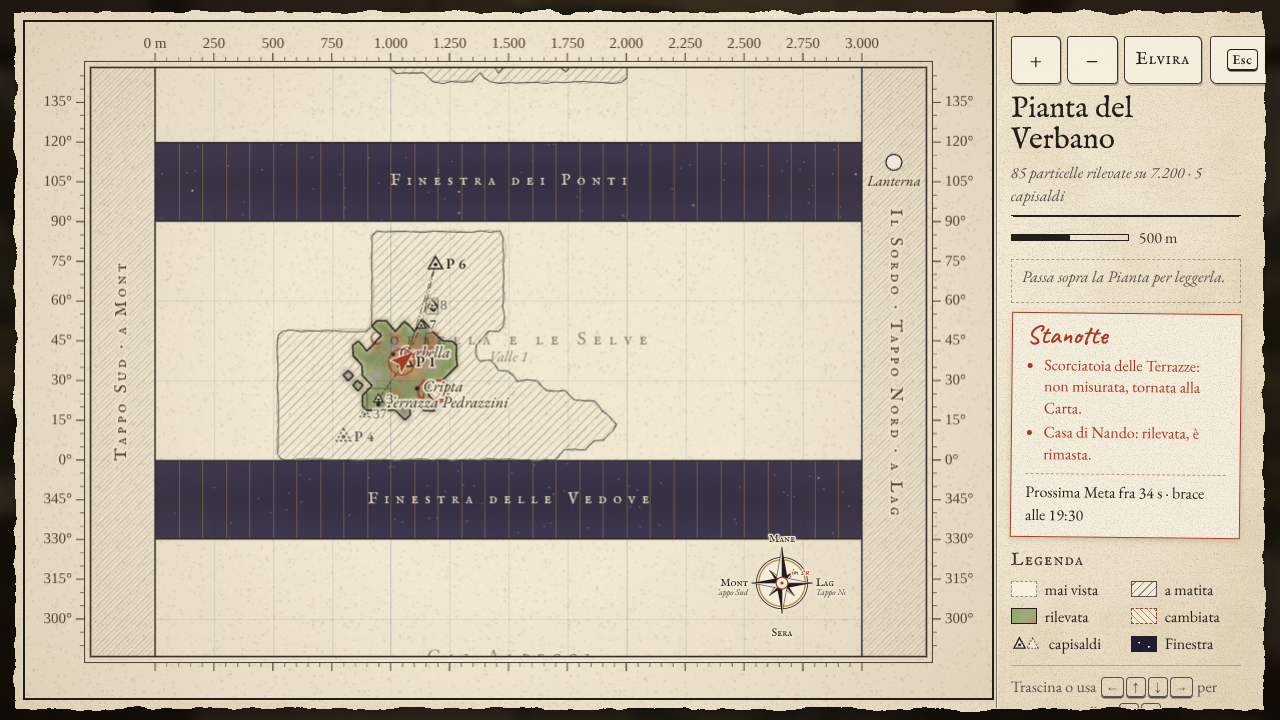
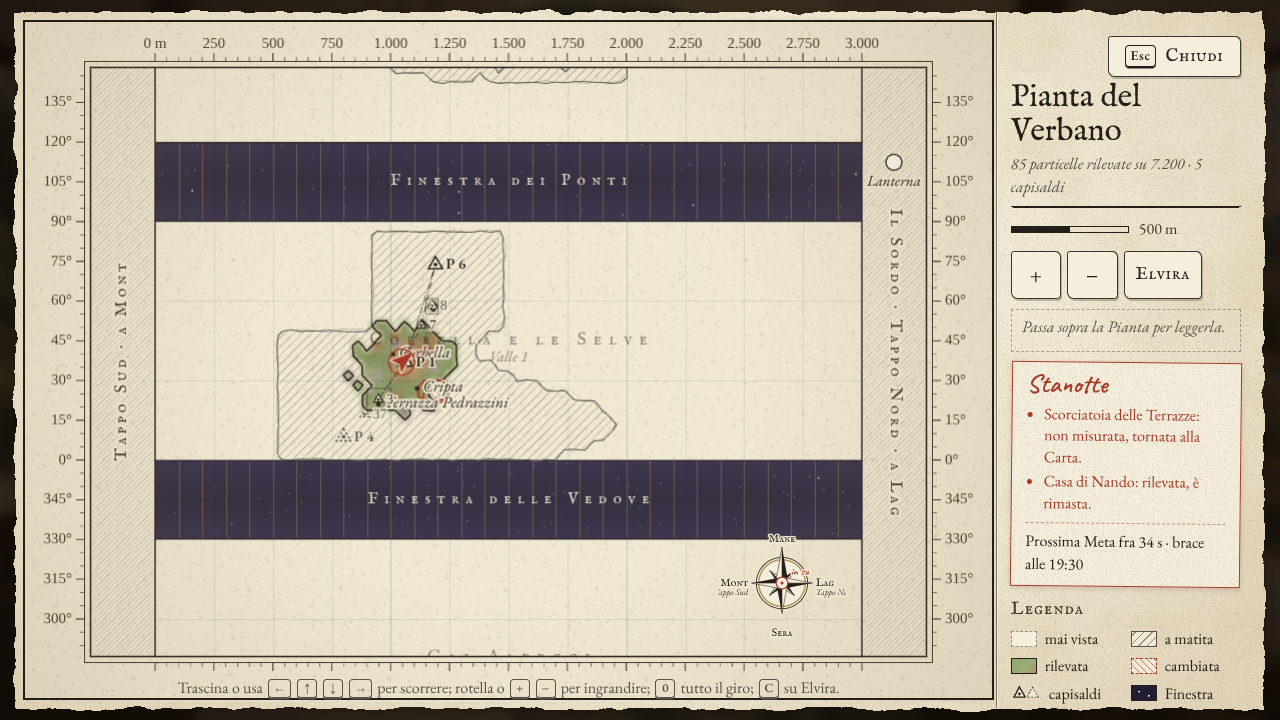
Cielo di Terra: istantanea del lavoro in corso
Claude-Session: https://claude.ai/code/session_016L3mhZfM8m5LnzdjzNNuFY

Changed region(s): [[0.7812, 0.0306, 1.0, 0.9778], [0.125, 0.9472, 0.6562, 0.9778]]

diff --git a/cielo-di-terra/moduli/narrativa/src/missioni.ts b/cielo-di-terra/moduli/narrativa/src/missioni.ts
@@ -8,9 +8,13 @@
  * - una missione inattiva con `avviaQuando` vero parte da sola; le altre
  *   partono con l'effetto «missione:id avvia», con `avvia(id)` o perché sono
  *   fra le `iniziali` (avviate al primo aggiornamento di una partita nuova);
- * - in una missione «sequenziale» un passo si attiva quando il precedente è
- *   completato e la sua `attivaQuando` (se c'è) è vera; in una «libera»
- *   conta solo `attivaQuando`;
+ * - un passo con `attivaQuando` si attiva quando la condizione è vera (così
+ *   si scrivono anche passi paralleli); un passo senza `attivaQuando`, in una
+ *   missione «sequenziale» (predefinita), si attiva quando il precedente è
+ *   completato, in una «libera» subito;
+ * - mentre un passo è attivo, ogni suo evento `{ quando, effetti }` scatta
+ *   una volta sola, la prima volta che `quando` è vera; gli aiuti a tempo
+ *   scattano dopo `dopoSecondi` secondi reali di passo attivo (`avanzaTempo`);
  * - un passo attivo si completa quando `completaQuando` è vera: si emette
  *   l'evento e si applicano i suoi effetti;
  * - quando tutti i passi sono completati la missione è completata e si
@@ -26,7 +30,7 @@ export type StatoPasso = 'bloccato' | 'attivo' | 'completato';
 
 export interface EventiMissioni {
   missioneAvviata: { missione: string; titolo: string };
-  passoAttivato: { missione: string; passo: string; obiettivo?: string };
+  passoAttivato: { missione: string; passo: string; obiettivo?: string; luogo?: string };
   passoCompletato: { missione: string; passo: string };
   missioneCompletata: { missione: string; titolo: string };
   missioneFallita: { missione: string; titolo: string };
@@ -39,18 +43,31 @@ export interface DipendenzeMissioni {
 
 export interface StatoMissioni {
   inizializzate: boolean;
-  missioni: Record<string, { stato: StatoMissione; passi: Record<string, StatoPasso> }>;
+  missioni: Record<
+    string,
+    {
+      stato: StatoMissione;
+      passi: Record<string, StatoPasso>;
+      /** Indici degli eventi dei passi già scattati. */
+      eventi?: Record<string, number[]>;
+      /** Indici degli aiuti a tempo già scattati. */
+      aiuti?: Record<string, number[]>;
+    }
+  >;
 }
 
 export interface PassoAttivo {
   missione: string;
   passo: string;
   obiettivo?: string;
+  luogo?: string;
 }
 
 interface StatoInterno {
   stato: StatoMissione;
   passi: Map<string, StatoPasso>;
+  eventi: Map<string, Set<number>>;
+  aiuti: Map<string, Set<number>>;
 }
 
 /** Limite di sicurezza per la cascata di `aggiorna()`. */
@@ -64,6 +81,8 @@ export class Missioni {
   private readonly stati = new Map<string, StatoInterno>();
   private inizializzate = false;
   private inAggiornamento = false;
+  /** Secondi reali passati con ciascun passo attivo («missione/passo»); non salvati. */
+  private readonly tempoAttivo = new Map<string, number>();
 
   constructor(
     defs: readonly MissioneDef[],
@@ -120,7 +139,12 @@ export class Missioni {
       if (this.stato(m.id) !== 'attiva') continue;
       for (const p of m.passi) {
         if (this.statoPasso(m.id, p.id) === 'attivo') {
-          out.push({ missione: m.id, passo: p.id, ...(p.obiettivo !== undefined ? { obiettivo: p.obiettivo } : {}) });
+          out.push({
+            missione: m.id,
+            passo: p.id,
+            ...(p.obiettivo !== undefined ? { obiettivo: p.obiettivo } : {}),
+            ...(p.luogo !== undefined ? { luogo: p.luogo } : {}),
+          });
         }
       }
     }
@@ -206,6 +230,18 @@ export class Missioni {
           st = 'attivo';
           progresso = true;
         }
+        if (st === 'attivo' && p.eventi.length) {
+          let fatti = s.eventi.get(p.id);
+          p.eventi.forEach((e, k) => {
+            if (s.stato !== 'attiva' || s.passi.get(p.id) !== 'attivo' || fatti?.has(k)) return;
+            if (!this.deps.valuta(e.quando)) return;
+            if (!fatti) s.eventi.set(p.id, (fatti = new Set()));
+            fatti.add(k);
+            progresso = true;
+            if (e.effetti.length) this.deps.applicaEffetti(e.effetti, `missione ${d.id}, passo ${p.id}, evento ${k + 1}`);
+          });
+          if (s.passi.get(p.id) !== 'attivo') return;
+        }
         if (st === 'attivo' && p.completaQuando !== undefined && this.deps.valuta(p.completaQuando)) {
           this.completaPassoInterno(d, s, p);
           progresso = true;
@@ -221,17 +257,48 @@ export class Missioni {
   }
 
   private puoAttivare(d: MissioneDef, s: StatoInterno, p: PassoDef, i: number): boolean {
-    if (d.ordine === 'sequenziale' && i > 0) {
-      const prec = d.passi[i - 1]!;
-      if (s.passi.get(prec.id) !== 'completato') return false;
+    if (p.attivaQuando !== undefined) return this.deps.valuta(p.attivaQuando);
+    if (d.ordine === 'sequenziale' && i > 0) return s.passi.get(d.passi[i - 1]!.id) === 'completato';
+    return true;
+  }
+
+  /**
+   * Fa passare `secondi` secondi reali per i passi attivi e applica gli aiuti
+   * a tempo maturati. Restituisce true se qualche aiuto è scattato.
+   */
+  avanzaTempo(secondi: number): boolean {
+    if (!(secondi > 0)) return false;
+    let scattato = false;
+    for (const d of this.defs.values()) {
+      const s = this.stati.get(d.id);
+      if (!s || s.stato !== 'attiva') continue;
+      for (const p of d.passi) {
+        if (s.passi.get(p.id) !== 'attivo' || p.aiuti.length === 0) continue;
+        const chiave = `${d.id}/${p.id}`;
+        const t = (this.tempoAttivo.get(chiave) ?? 0) + secondi;
+        this.tempoAttivo.set(chiave, t);
+        p.aiuti.forEach((a, k) => {
+          let fatti = s.aiuti.get(p.id);
+          if (fatti?.has(k) || t < a.dopoSecondi || s.passi.get(p.id) !== 'attivo') return;
+          if (!fatti) s.aiuti.set(p.id, (fatti = new Set()));
+          fatti.add(k);
+          scattato = true;
+          if (a.effetti.length) this.deps.applicaEffetti(a.effetti, `missione ${d.id}, passo ${p.id}, aiuto ${k + 1}`);
+        });
+      }
     }
-    return p.attivaQuando === undefined || this.deps.valuta(p.attivaQuando);
+    return scattato;
   }
 
   private avviaSenzaAggiornare(id: string): boolean {
     const d = this.defs.get(id);
     if (!d || this.stato(id) !== 'inattiva') return false;
-    const s: StatoInterno = { stato: 'attiva', passi: new Map(d.passi.map((p) => [p.id, 'bloccato' as StatoPasso])) };
+    const s: StatoInterno = {
+      stato: 'attiva',
+      passi: new Map(d.passi.map((p) => [p.id, 'bloccato' as StatoPasso])),
+      eventi: new Map(),
+      aiuti: new Map(),
+    };
     this.stati.set(id, s);
     this.eventi.emit('missioneAvviata', { missione: id, titolo: d.titolo });
     return true;
@@ -243,6 +310,7 @@ export class Missioni {
       missione: d.id,
       passo: p.id,
       ...(p.obiettivo !== undefined ? { obiettivo: p.obiettivo } : {}),
+      ...(p.luogo !== undefined ? { luogo: p.luogo } : {}),
     });
     if (p.effettiAttivazione.length) this.deps.applicaEffetti(p.effettiAttivazione, `missione ${d.id}, attivazione di ${p.id}`);
   }
@@ -275,14 +343,21 @@ export class Missioni {
 
   esporta(): StatoMissioni {
     const missioni: StatoMissioni['missioni'] = {};
+    const lista = (m: Map<string, Set<number>>): Record<string, number[]> =>
+      Object.fromEntries([...m].filter(([, v]) => v.size).map(([k, v]) => [k, [...v].sort((a, b) => a - b)]));
     for (const [id, s] of this.stati) {
       missioni[id] = { stato: s.stato, passi: Object.fromEntries(s.passi) };
+      if (s.eventi.size) missioni[id].eventi = lista(s.eventi);
+      if (s.aiuti.size) missioni[id].aiuti = lista(s.aiuti);
     }
     return { inizializzate: this.inizializzate, missioni };
   }
 
   importa(dati: StatoMissioni): void {
     this.stati.clear();
+    this.tempoAttivo.clear();
+    const insiemi = (r: Record<string, number[]> | undefined): Map<string, Set<number>> =>
+      new Map(Object.entries(r ?? {}).map(([k, v]) => [k, new Set(Array.isArray(v) ? v.filter((n) => typeof n === 'number') : [])]));
     this.inizializzate = !!dati.inizializzate;
     const statiValidi = new Set<StatoMissione>(['inattiva', 'attiva', 'completata', 'fallita']);
     const passiValidi = new Set<StatoPasso>(['bloccato', 'attivo', 'completato']);
@@ -292,7 +367,7 @@ export class Missioni {
       for (const [p, st] of Object.entries(s.passi ?? {})) if (passiValidi.has(st)) passi.set(p, st);
       // Passi aggiunti ai contenuti dopo il salvataggio: partono bloccati.
       for (const p of this.defs.get(id)?.passi ?? []) if (!passi.has(p.id)) passi.set(p.id, 'bloccato');
-      this.stati.set(id, { stato: s.stato, passi });
+      this.stati.set(id, { stato: s.stato, passi, eventi: insiemi(s.eventi), aiuti: insiemi(s.aiuti) });
     }
   }
 }

diff --git a/cielo-di-terra/moduli/narrativa/src/narrativa.ts b/cielo-di-terra/moduli/narrativa/src/narrativa.ts
@@ -292,11 +292,14 @@ export class Narrativa {
   }
 
   /**
-   * Valuta le missioni (avvio, attivazione e completamento dei passi) e le
-   * voci automatiche del taccuino, a cascata finché nulla cambia.
-   * Il gioco lo chiama ogni tanto; restituisce true se qualcosa è cambiato.
+   * Valuta le missioni (avvio, attivazione e completamento dei passi, eventi
+   * dei passi) e le voci automatiche del taccuino, a cascata finché nulla
+   * cambia; aggiorna la riga del cielo e annuncia i dialoghi automatici.
+   * Il gioco lo chiama ogni tanto; `secondi` (facoltativo) sono i secondi
+   * reali passati dall'ultima chiamata, per gli aiuti a tempo dei passi.
+   * Restituisce true se qualcosa è cambiato.
    */
-  tick(): boolean {
+  tick(secondi = 0): boolean {
     if (this.inTick) {
       this.tickRichiesto = true;
       return false;
@@ -304,6 +307,7 @@ export class Narrativa {
     this.inTick = true;
     let cambiato = false;
     try {
+      if (this.missioni.avanzaTempo(secondi)) cambiato = true;
       if (this.fatti.prossimoEventoCielo) this.taccuino.impostaRigaCieloGioco(this.fatti.prossimoEventoCielo());
       for (let giro = 0; giro < 1000; giro++) {
         this.tickRichiesto = false;

diff --git a/cielo-di-terra/moduli/ui/src/componenti/pianta.css b/cielo-di-terra/moduli/ui/src/componenti/pianta.css
@@ -48,10 +48,10 @@
   border-left: 1.5px solid rgba(36, 30, 25, 0.55);
   box-shadow: inset 1px 0 0 rgba(255, 252, 240, 0.6);
 }
-.ui-pt-comandi-riga {
+.ui-pt-chiudi-riga {
   display: flex;
-  justify-content: space-between;
-  gap: 8px;
+  justify-content: flex-end;
+  margin-bottom: -6px;
 }
 .ui-pt-testa {
   padding-bottom: 8px;
@@ -62,7 +62,7 @@
   margin: 0;
   font-family: var(--f-titolo);
   font-weight: 400;
-  font-size: calc(30px * var(--ui-scala));
+  font-size: calc(32px * var(--ui-scala));
   line-height: 1.05;
 }
 .ui-pt-sottotitolo {
@@ -258,12 +258,20 @@
 }
 
 .ui-pt-aiuto {
-  margin: auto 0 0;
-  padding-top: 8px;
-  border-top: 1px solid rgba(36, 30, 25, 0.25);
+  position: absolute;
+  left: 70px;
+  right: 70px;
+  bottom: 2px;
+  margin: 0;
+  display: flex;
+  flex-wrap: wrap;
+  justify-content: center;
+  align-items: center;
+  gap: 2px 4px;
   font-size: var(--t-piccolo);
-  line-height: 1.6;
+  line-height: 1.5;
   color: var(--matita);
+  pointer-events: none;
 }
 .ui-pt-aiuto .ui-tasto {
   font-size: 0.78em;

diff --git a/cielo-di-terra/moduli/ui/src/componenti/pianta.ts b/cielo-di-terra/moduli/ui/src/componenti/pianta.ts
@@ -111,14 +111,14 @@ export class PiantaVerbano extends Componente<EventiPianta> {
     const lato = h(
       'aside',
       { class: 'ui-pt-lato' },
-      h('div', { class: 'ui-pt-comandi-riga' }, comandi, bChiudi),
+      h('div', { class: 'ui-pt-chiudi-riga' }, bChiudi),
       h('header', { class: 'ui-pt-testa' }, h('h2', { class: 'ui-pt-titolo' }, 'Pianta del Verbano'), this.sottotitolo),
-      this.scalaGrafica,
+      h('div', { class: 'ui-pt-strumenti' }, this.scalaGrafica, comandi),
       this.didascalia,
       this.resoconto,
       legenda,
-      aiuto,
     );
+    this.area.append(aiuto);
 
     this.el.append(
       h('div', { class: 'ui-velo ui-velo--scuro', 'aria-hidden': 'true' }),
